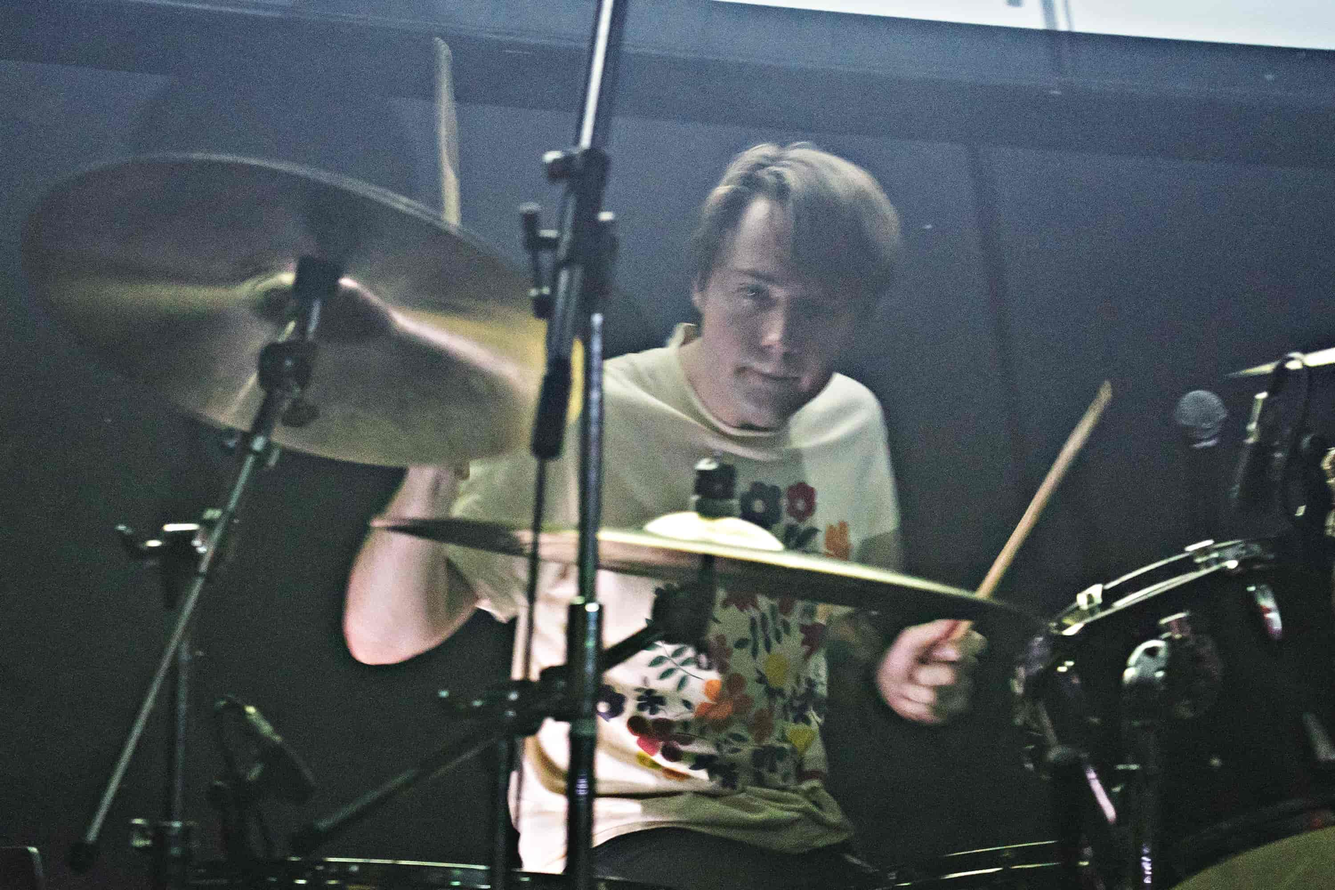
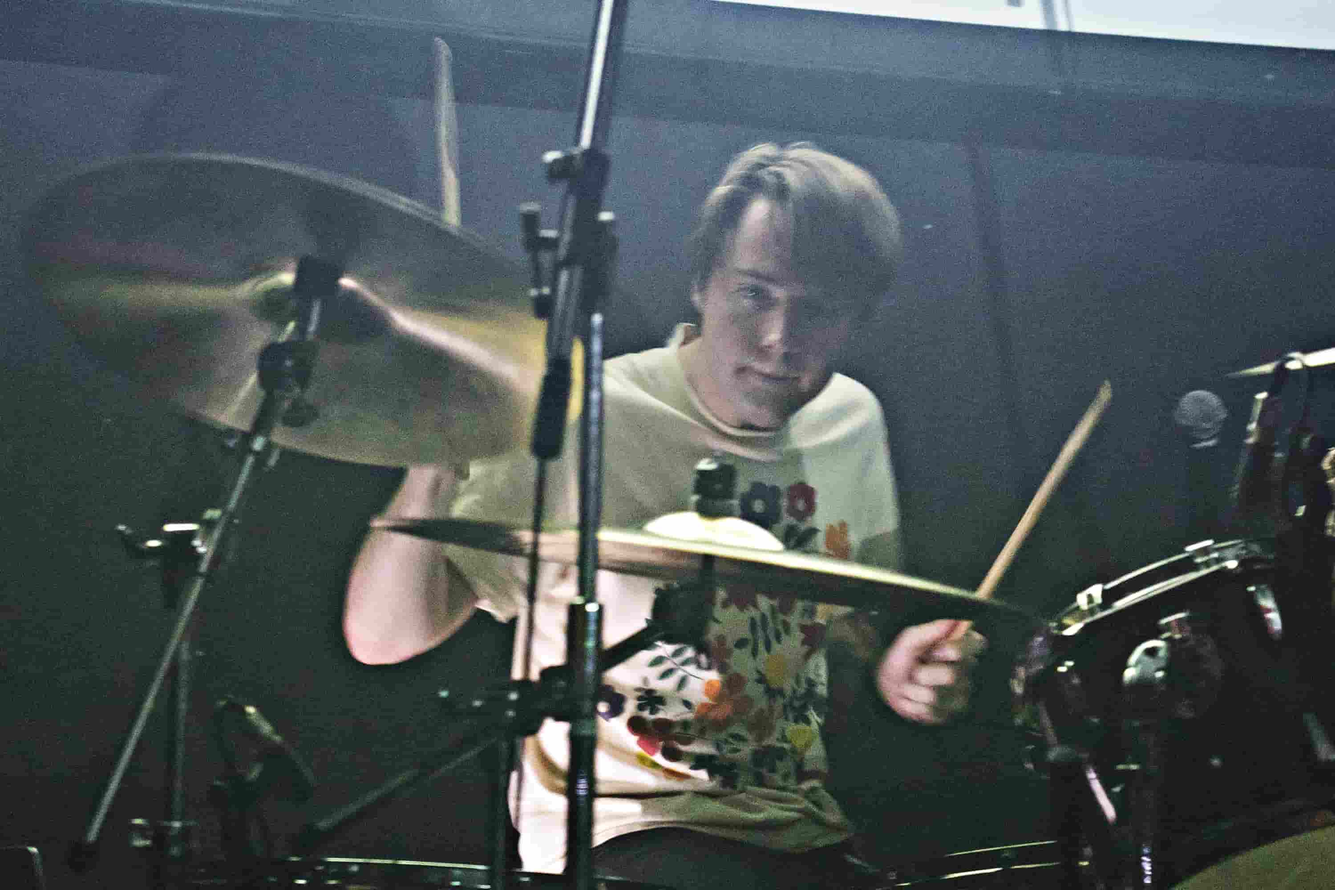
compress images

Changed region(s): [[0.992, 0.496, 1.0, 0.527]]

diff --git a/imagemin.js b/imagemin.js
@@ -3,14 +3,17 @@ const imageminJpegoptim = require('imagemin-jpegoptim');
 const imageminPngquant = require('imagemin-pngquant');
 
 (async () => {
-  await imagemin(['images/*.{jpg,png}'], {
+  const isTooBig = process.argv[2] && process.argv[2] === 'warned';
+  const quality = isTooBig ? 15 : 30;
+  const path = isTooBig ? 'warned_images' : 'images';
+  await imagemin([`${path}/*.{jpg,png}`], {
     destination: 'src/assets',
     plugins: [
       imageminJpegoptim({
-        max: 30,
+        max: quality,
       }),
       imageminPngquant({
-        quality: [0.3, 0.35],
+        quality: [quality / 100, quality / 100],
       }),
     ],
   });
